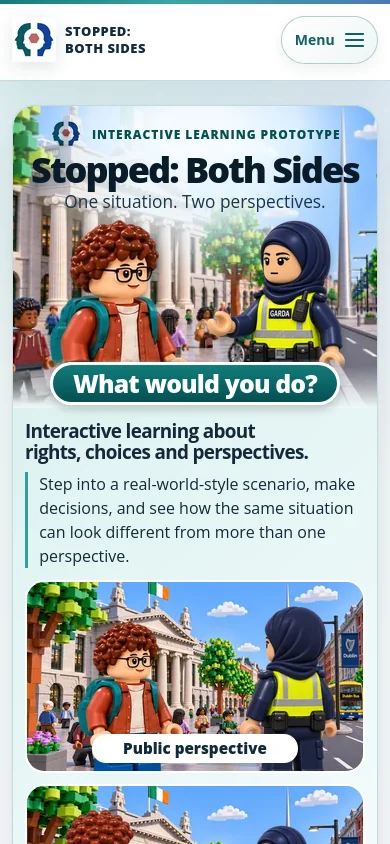
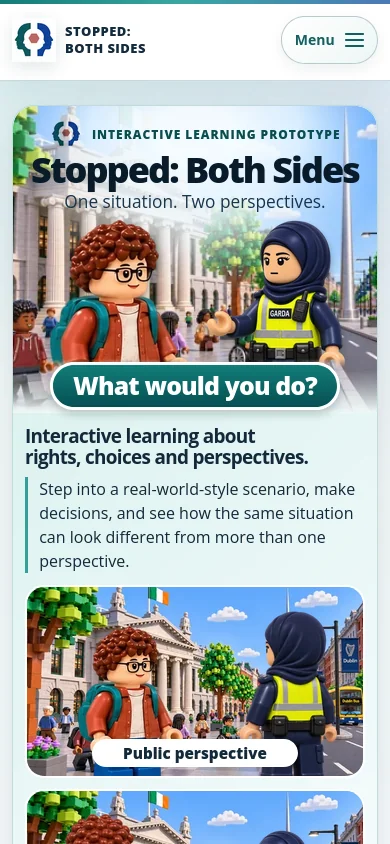
Keep poster controls tappable and prevent a hidden animation on mobile refresh

Changed region(s): [[0.0308, 0.1232, 0.9538, 1.0], [0.8308, 0.1232, 0.9846, 0.4313]]

diff --git a/landing/poster-landing.css b/landing/poster-landing.css
@@ -15,7 +15,7 @@ html[data-perspective] .sbs-poster.reference-landing {
   color: var(--ink);
   overflow-wrap: anywhere;
 }
-.sbs-poster.reference-landing::after { content: none; }
+.sbs-poster.reference-landing::after { content: none; display: none; animation: none; }
 .sbs-poster *, .sbs-poster *::before, .sbs-poster *::after { box-sizing: border-box; }
 .sbs-poster :is(a, img) { max-inline-size: 100%; }
 .sbs-poster a { color: inherit; text-decoration: none; }
@@ -70,7 +70,7 @@ html[data-perspective] .sbs-poster.reference-landing {
   align-self: start; filter: drop-shadow(2px 5px 3px #10302c38);
 }
 .sbs-poster .hero-question {
-  display: block; position: relative; justify-self: center; margin-block: -.25em .12em; max-inline-size: 100%;
+  display: grid; align-items: center; min-block-size: 48px; position: relative; justify-self: center; margin-block: -.25em .12em; max-inline-size: 100%;
   padding: .15em .8em .2em; border: 3px solid white; border-radius: 2em;
   background: linear-gradient(#127d78, #064f54); box-shadow: 0 4px 10px #17333040; color: white;
   font-weight: 800; line-height: 1.15; font-size: clamp(1.55rem, 3.4vw, 3rem); letter-spacing: -.035em;
@@ -115,7 +115,7 @@ html[data-perspective] .sbs-poster.reference-landing {
 .sbs-poster .learning-card { position: relative; min-inline-size: 0; margin: 0; padding: .8rem; background: #ffffffed; border: 1px solid #d4e6e8; border-radius: 1rem; box-shadow: 0 4px 10px #0b4d5c0a; }
 .sbs-poster .learning-card h3 { display: flex; align-items: center; gap: .45em; margin: 0 0 .7em; font-size: 1.03rem; color: var(--ink); line-height: 1.23; letter-spacing: -.025em; }
 .sbs-poster .step-number { flex: none; display: grid; place-items: center; inline-size: 1.8em; block-size: 1.8em; background: var(--sea); color: white; border-radius: 50%; font-weight: 800; }
-.sbs-poster .role-picker__item { text-align: center; padding: .2rem; border: 1px solid var(--edge); border-radius: .75rem; background: #eff9fa; font-size: .95rem; font-weight: 700; }
+.sbs-poster .role-picker__item { display: grid; align-content: center; min-block-size: 44px; text-align: center; padding: .2rem; border: 1px solid var(--edge); border-radius: .75rem; background: #eff9fa; font-size: .95rem; font-weight: 700; }
 .sbs-poster .avatar { display: block; aspect-ratio: 1.18; overflow: hidden; }
 .sbs-poster .avatar-image { width: 100%; height: 210%; object-fit: cover; object-position: center top; }
 .sbs-poster .story-preview { margin: 0; overflow: hidden; border: 1px solid var(--edge); border-radius: .75rem; background: #eff9fa; }
